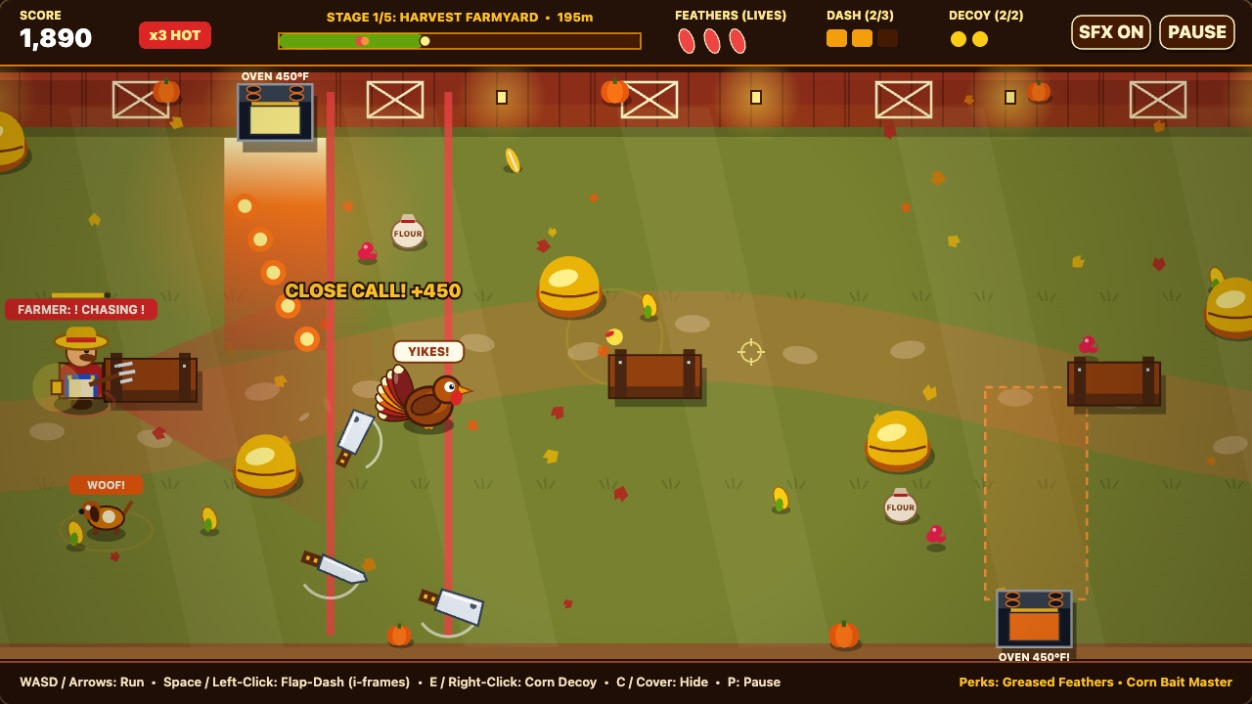
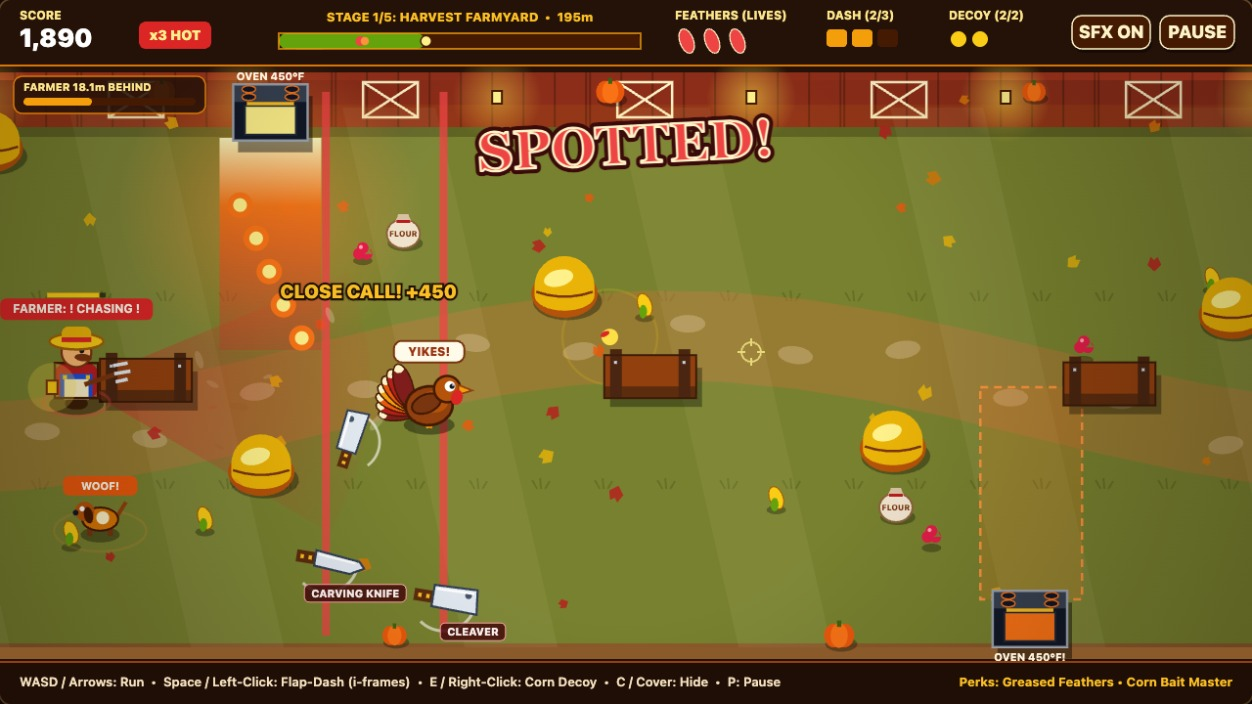
V7: SPOTTED/CORNERED comic stamp, live farmer chase meter, carving knife & cleaver hazard tags

diff --git a/game/src/hud.js b/game/src/hud.js
@@ -17,6 +17,10 @@ export class HudRenderer {
     if (engine.state === GAME_STATES.PLAYING && engine.stageIndex === 3) {
       this._drawKitchenBossBanner(ctx);
     }
+    if (engine.state === GAME_STATES.PLAYING || engine.state === GAME_STATES.PAUSED) {
+      this._drawChaseMeter(ctx, engine);
+      if (engine.farmer.spottedTimer > 0) this._drawSpottedStamp(ctx, engine);
+    }
 
     if (engine.state === GAME_STATES.PERK_SELECT) {
       this._drawPerkSelect(ctx, engine);
@@ -203,6 +207,62 @@ export class HudRenderer {
       },
     });
 
+    ctx.restore();
+  }
+
+  /** Live pursuit gauge: how many metres separate Barnaby from the Farmer, coloured by danger. */
+  _drawChaseMeter(ctx, engine) {
+    const { farmer, turkey } = engine;
+    const meters = Math.max(0, Math.hypot(farmer.x - turkey.x, farmer.y - turkey.y) * 0.05);
+    const danger = 1 - Math.min(1, meters / 30);
+    const x = 14;
+    const y = HUD_TOP_HEIGHT + 10;
+    ctx.save();
+    ctx.fillStyle = 'rgba(36, 17, 8, 0.86)';
+    ctx.beginPath();
+    ctx.roundRect(x, y, 196, 38, 9);
+    ctx.fill();
+    ctx.strokeStyle = danger > 0.6 ? '#F87171' : '#D97706';
+    ctx.lineWidth = 1.5;
+    ctx.stroke();
+    ctx.fillStyle = '#FDE68A';
+    ctx.font = '800 11px system-ui, sans-serif';
+    ctx.textAlign = 'left';
+    ctx.textBaseline = 'alphabetic';
+    ctx.fillText(`FARMER ${meters.toFixed(1)}m BEHIND`, x + 10, y + 15);
+    ctx.fillStyle = '#451A03';
+    ctx.beginPath();
+    ctx.roundRect(x + 10, y + 22, 176, 8, 4);
+    ctx.fill();
+    ctx.fillStyle = danger > 0.6 ? '#EF4444' : danger > 0.3 ? '#F59E0B' : '#65A30D';
+    ctx.beginPath();
+    ctx.roundRect(x + 10, y + 22, Math.max(8, 176 * danger), 8, 4);
+    ctx.fill();
+    ctx.restore();
+  }
+
+  /** Comic stamp that slams in when the Farmer first spots or corners the turkey. */
+  _drawSpottedStamp(ctx, engine) {
+    const t = engine.farmer.spottedTimer;
+    const text = engine.farmer.spottedLabel || 'SPOTTED!';
+    const pop = 1 + Math.max(0, t - 0.9) * 2.2;
+    ctx.save();
+    ctx.globalAlpha = Math.min(1, t / 0.25);
+    ctx.translate(640, HUD_TOP_HEIGHT + 84);
+    ctx.rotate(-0.05);
+    ctx.scale(pop, pop);
+    ctx.font = '900 46px Georgia, serif';
+    ctx.textAlign = 'center';
+    ctx.textBaseline = 'middle';
+    ctx.lineJoin = 'round';
+    ctx.lineWidth = 9;
+    ctx.strokeStyle = '#3B0A0A';
+    ctx.strokeText(text, 0, 0);
+    ctx.fillStyle = '#EF4444';
+    ctx.fillText(text, 0, 0);
+    ctx.lineWidth = 2;
+    ctx.strokeStyle = '#FEF3C7';
+    ctx.strokeText(text, 0, 0);
     ctx.restore();
   }
 

diff --git a/game/src/farmer.js b/game/src/farmer.js
@@ -22,6 +22,8 @@ export class FarmerAI {
     this.lungeDirY = 0;
     this.calloutText = '';
     this.calloutTimer = 0;
+    this.spottedTimer = 0;
+    this.spottedLabel = 'SPOTTED!';
     this.walkPhase = 0;
     this.activeDecoy = null;
     this.stunTimer = 0;
@@ -39,6 +41,8 @@ export class FarmerAI {
     this.lungeTimer = 0;
     this.calloutText = '';
     this.calloutTimer = 0;
+    this.spottedTimer = 0;
+    this.spottedLabel = 'SPOTTED!';
     this.stunTimer = 0;
     this.isChef = stageDef.index >= 3;
 
@@ -98,6 +102,7 @@ export class FarmerAI {
 
   update(dt, turkey, stage, decoys, perks, sound, onScoreDecoyLure) {
     if (this.calloutTimer > 0) this.calloutTimer = Math.max(0, this.calloutTimer - dt);
+    if (this.spottedTimer > 0) this.spottedTimer = Math.max(0, this.spottedTimer - dt);
     if (this.lungeCooldown > 0) this.lungeCooldown = Math.max(0, this.lungeCooldown - dt);
     if (this.stunTimer > 0) {
       this.stunTimer = Math.max(0, this.stunTimer - dt);
@@ -127,11 +132,17 @@ export class FarmerAI {
       if (this.suspicion >= 100) {
         if (this.isTurkeyCornered(turkey, stage)) {
           this.state = FARMER_STATES.CORNERING;
-          if (prevState !== FARMER_STATES.CORNERING) this.setCallout('CORNERED!', 1.2);
+          if (prevState !== FARMER_STATES.CORNERING) {
+            this.setCallout('CORNERED!', 1.2);
+            this.spottedTimer = 1.1;
+            this.spottedLabel = 'CORNERED!';
+          }
         } else {
           this.state = FARMER_STATES.CHASING;
           if (prevState !== FARMER_STATES.CHASING && prevState !== FARMER_STATES.CORNERING) {
             this.setCallout('! DINNER TIME !', 1.3);
+            this.spottedTimer = 1.1;
+            this.spottedLabel = 'SPOTTED!';
             sound?.playAlert(false);
           }
         }

diff --git a/game/src/renderer.js b/game/src/renderer.js
@@ -59,7 +59,7 @@ export class GameRenderer {
     drawables.sort((a, b) => a.y - b.y);
     for (const item of drawables) item.draw();
 
-    this._drawSweepKnifeBlades(ctx, hazards.sweepKnives);
+    this._drawSweepKnifeBlades(ctx, hazards.sweepKnives, turkey);
     this._drawThrownKnives(ctx, hazards.thrownKnives);
     for (const cloud of engine.gadgets?.clouds ?? []) {
       drawFlourCloud(ctx, cloud);
@@ -488,13 +488,34 @@ export class GameRenderer {
     }
   }
 
-  _drawSweepKnifeBlades(ctx, knives) {
+  _drawSweepKnifeBlades(ctx, knives, turkey) {
     for (const k of knives) {
       if (k.state !== 'SLICE') continue;
       const bx = k.horizontal ? k.bladePos : k.x;
       const by = k.horizontal ? k.y : k.bladePos;
       drawBladeSprite(ctx, bx, by, k.spin, 1.38, k.id % 2 === 1);
+      if (!turkey || Math.hypot(bx - turkey.x, by - turkey.y) > 120) {
+        this._drawHazardTag(ctx, k.id % 2 === 1 ? 'CLEAVER' : 'CARVING KNIFE', bx + 30, by + 34);
+      }
     }
+  }
+
+  _drawHazardTag(ctx, text, x, y) {
+    ctx.save();
+    ctx.font = '800 11px system-ui, sans-serif';
+    const w = ctx.measureText(text).width + 14;
+    ctx.fillStyle = 'rgba(69, 10, 10, 0.86)';
+    ctx.beginPath();
+    ctx.roundRect(x - w * 0.5, y - 9, w, 18, 5);
+    ctx.fill();
+    ctx.strokeStyle = '#FCA5A5';
+    ctx.lineWidth = 1;
+    ctx.stroke();
+    ctx.fillStyle = '#FEF2F2';
+    ctx.textAlign = 'center';
+    ctx.textBaseline = 'middle';
+    ctx.fillText(text, x, y + 0.5);
+    ctx.restore();
   }
 
   _drawThrownKnives(ctx, knives) {

diff --git a/game/src/engine.js b/game/src/engine.js
@@ -529,6 +529,8 @@ export class GameEngine {
       this.farmer.facing = Math.atan2(this.turkey.y - this.farmer.y, this.turkey.x - this.farmer.x);
       this.farmer.state = shot === 'kitchen' ? FARMER_STATES.CORNERING : FARMER_STATES.CHASING;
       this.farmer.suspicion = 100;
+      this.farmer.spottedTimer = 1.7;
+      this.farmer.spottedLabel = shot === 'kitchen' ? 'CORNERED!' : 'SPOTTED!';
       this.farmer.setCallout(shot === 'kitchen' ? 'CORNERED!' : '! CHASING !', 1.5);
 
       for (const oven of this.hazards.ovens) {
